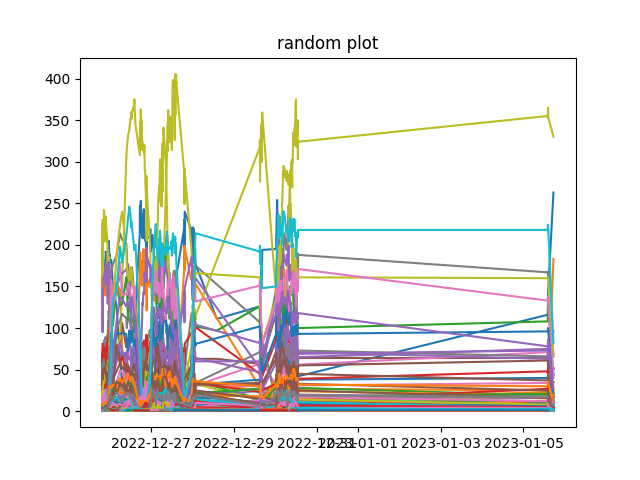
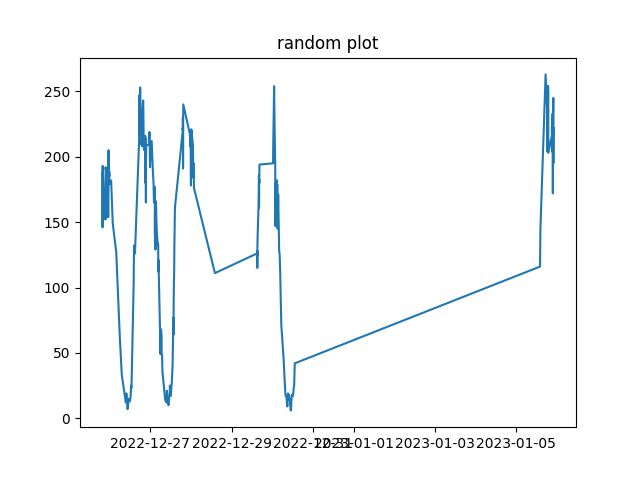
added checklist so that website can be displayed with different options

diff --git a/sif-website/src/App.js b/sif-website/src/App.js
@@ -16,8 +16,6 @@ function App() {
     
     if (route === '/flight') {
 
-      
-
       fetchImage('/flight');
     }
     else if (route ==="/currency") {
@@ -36,35 +34,36 @@ function App() {
   const handleChange = (event) => {
     const {name, checked} = event.target;
     if (checked){
-      setOptions([...options, " " + name]);
+      setOptions([...options, name]);
     }
     else {
-      setOptions(options.filter((option) => option !== " " + name));
+      setOptions(options.filter((option) => option !== name));
     }
   }
 
-  const handleSubmit = () => {
-    console.log(options);
+  const handleSubmit = async () => {
+    const response = await fetch(`/flight1?options=${options.join(",")}`);
+    const blob = await response.blob();
+    setImage(URL.createObjectURL(blob));
   }
 
   return (
     <div>
       {image && <img src={image} alt="Random Plot" />}
-      <p>{options}</p>
       <form>
         <label>
-          <input type="checkbox" name="Option1" onChange={handleChange} />
-          Option 1
+          <input type="checkbox" name="Australia" onChange={handleChange} />
+          Australia
         </label>
       <br />
         <label>
-          <input type="checkbox" name="Option2" onChange={handleChange} />
-          Option 2
+          <input type="checkbox" name="Thailand" onChange={handleChange} />
+          Thailand
         </label>
       <br />
         <label>
-          <input type="checkbox" name="Option3" onChange={handleChange} />
-          Option 3
+          <input type="checkbox" name="Brazil" onChange={handleChange} />
+          Brazil
         </label>
       <br />
       <button type="button" onClick={handleSubmit}>Submit</button>

diff --git a/flask/app.py b/flask/app.py
@@ -1,4 +1,4 @@
-from flask import Flask, send_file
+from flask import Flask, send_file, request
 import matplotlib
 matplotlib.use("Agg")
 import matplotlib.pyplot as plt
@@ -16,6 +16,51 @@ cnx = mysql.connector.connect(
     host="127.0.0.1",
     database="temp_database"
 )
+
+@app.route("/flight1")
+def flight1():
+
+    options = request.args.get('options').split(',')
+    
+    mycursor = cnx.cursor()
+    mycursor.execute("SELECT country FROM flights")
+    country1 = mycursor.fetchall()
+
+    mycursor.execute("SELECT amount FROM flights")
+    amount1 = mycursor.fetchall()
+
+    mycursor.execute("SELECT time FROM flights")
+    time1 = mycursor.fetchall()
+
+    dict1 = {}
+
+    for x in range(len(country1)):
+        if country1[x] not in dict1.keys():
+            dict1[country1[x]] = {}
+        dict1[country1[x]][time1[x]] = amount1[x]
+        
+    for outside in dict1.keys():
+        if outside[0] in options:
+            x = []
+            y = []
+            for inside in dict1[outside].keys():
+                x.append(inside[0])
+                y.append(dict1[outside][inside][0])
+
+            df_x = pd.DataFrame(x, columns=['Time'])
+            df_x['Time'] = pd.to_datetime(df_x['Time'])
+
+            x1 = df_x['Time']
+
+            plt.plot(x1, y)
+
+    plt.title("random plot")
+
+    plt.savefig('/Users/sanjeevdevarajan/Documents/GitHub/SIF-Alternate-Data-Website/sif-website/src/components/plot5.png')
+    plt.clf()
+
+    return send_file("/Users/sanjeevdevarajan/Documents/GitHub/SIF-Alternate-Data-Website/sif-website/src/components/plot5.png", mimetype="image/png")
+    
 
 @app.route("/flight")
 def flight():
